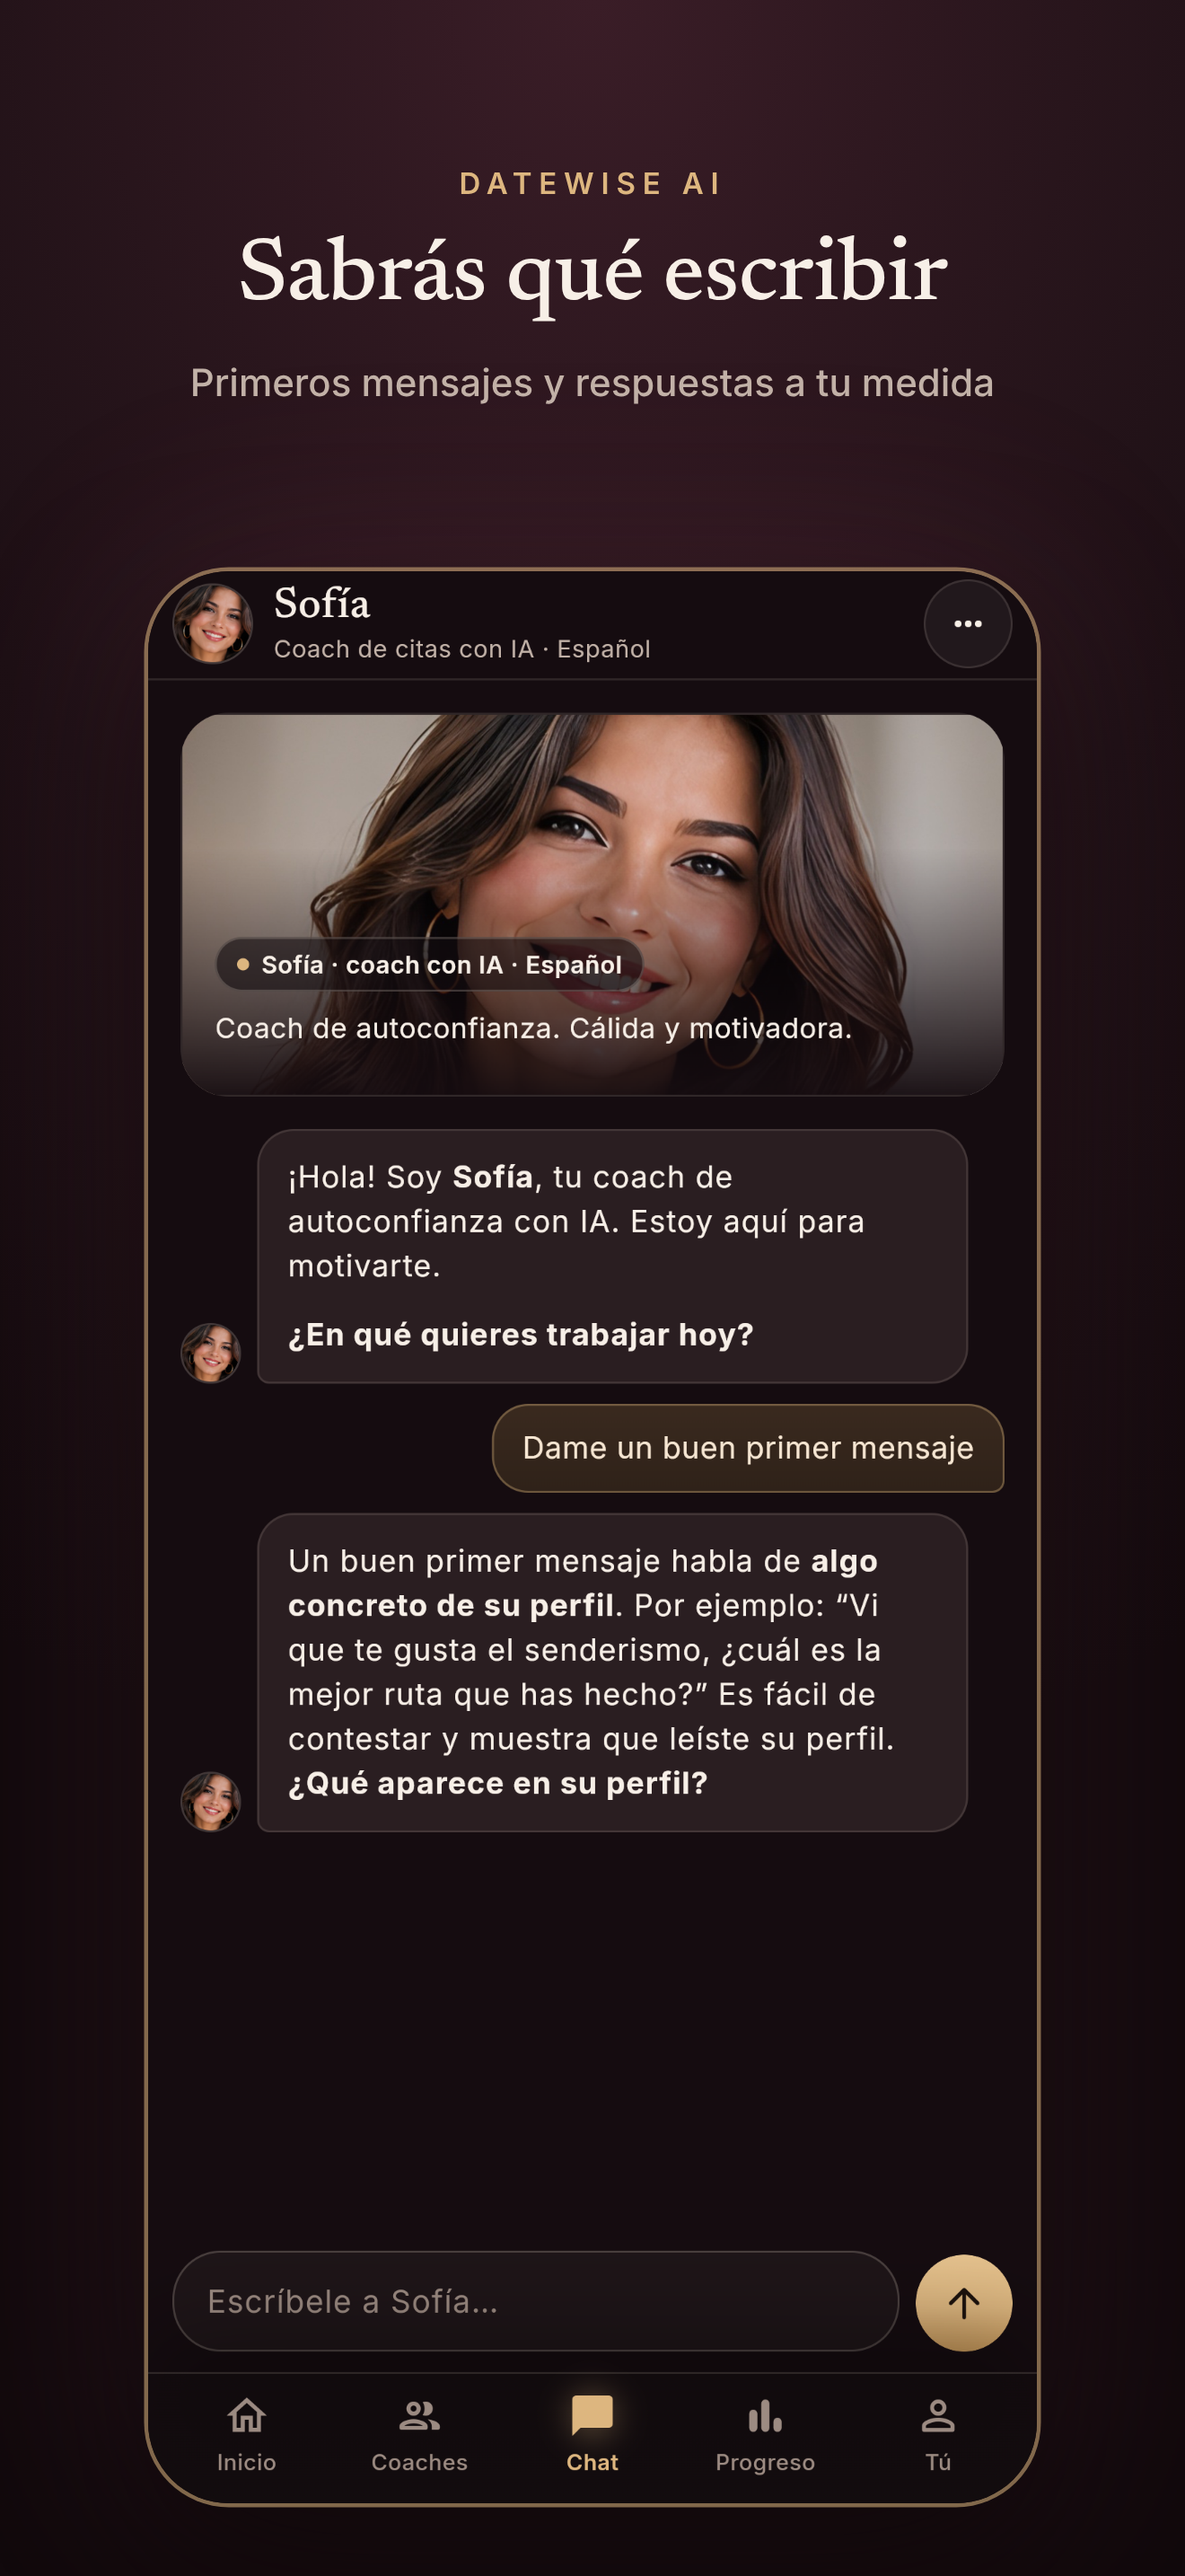
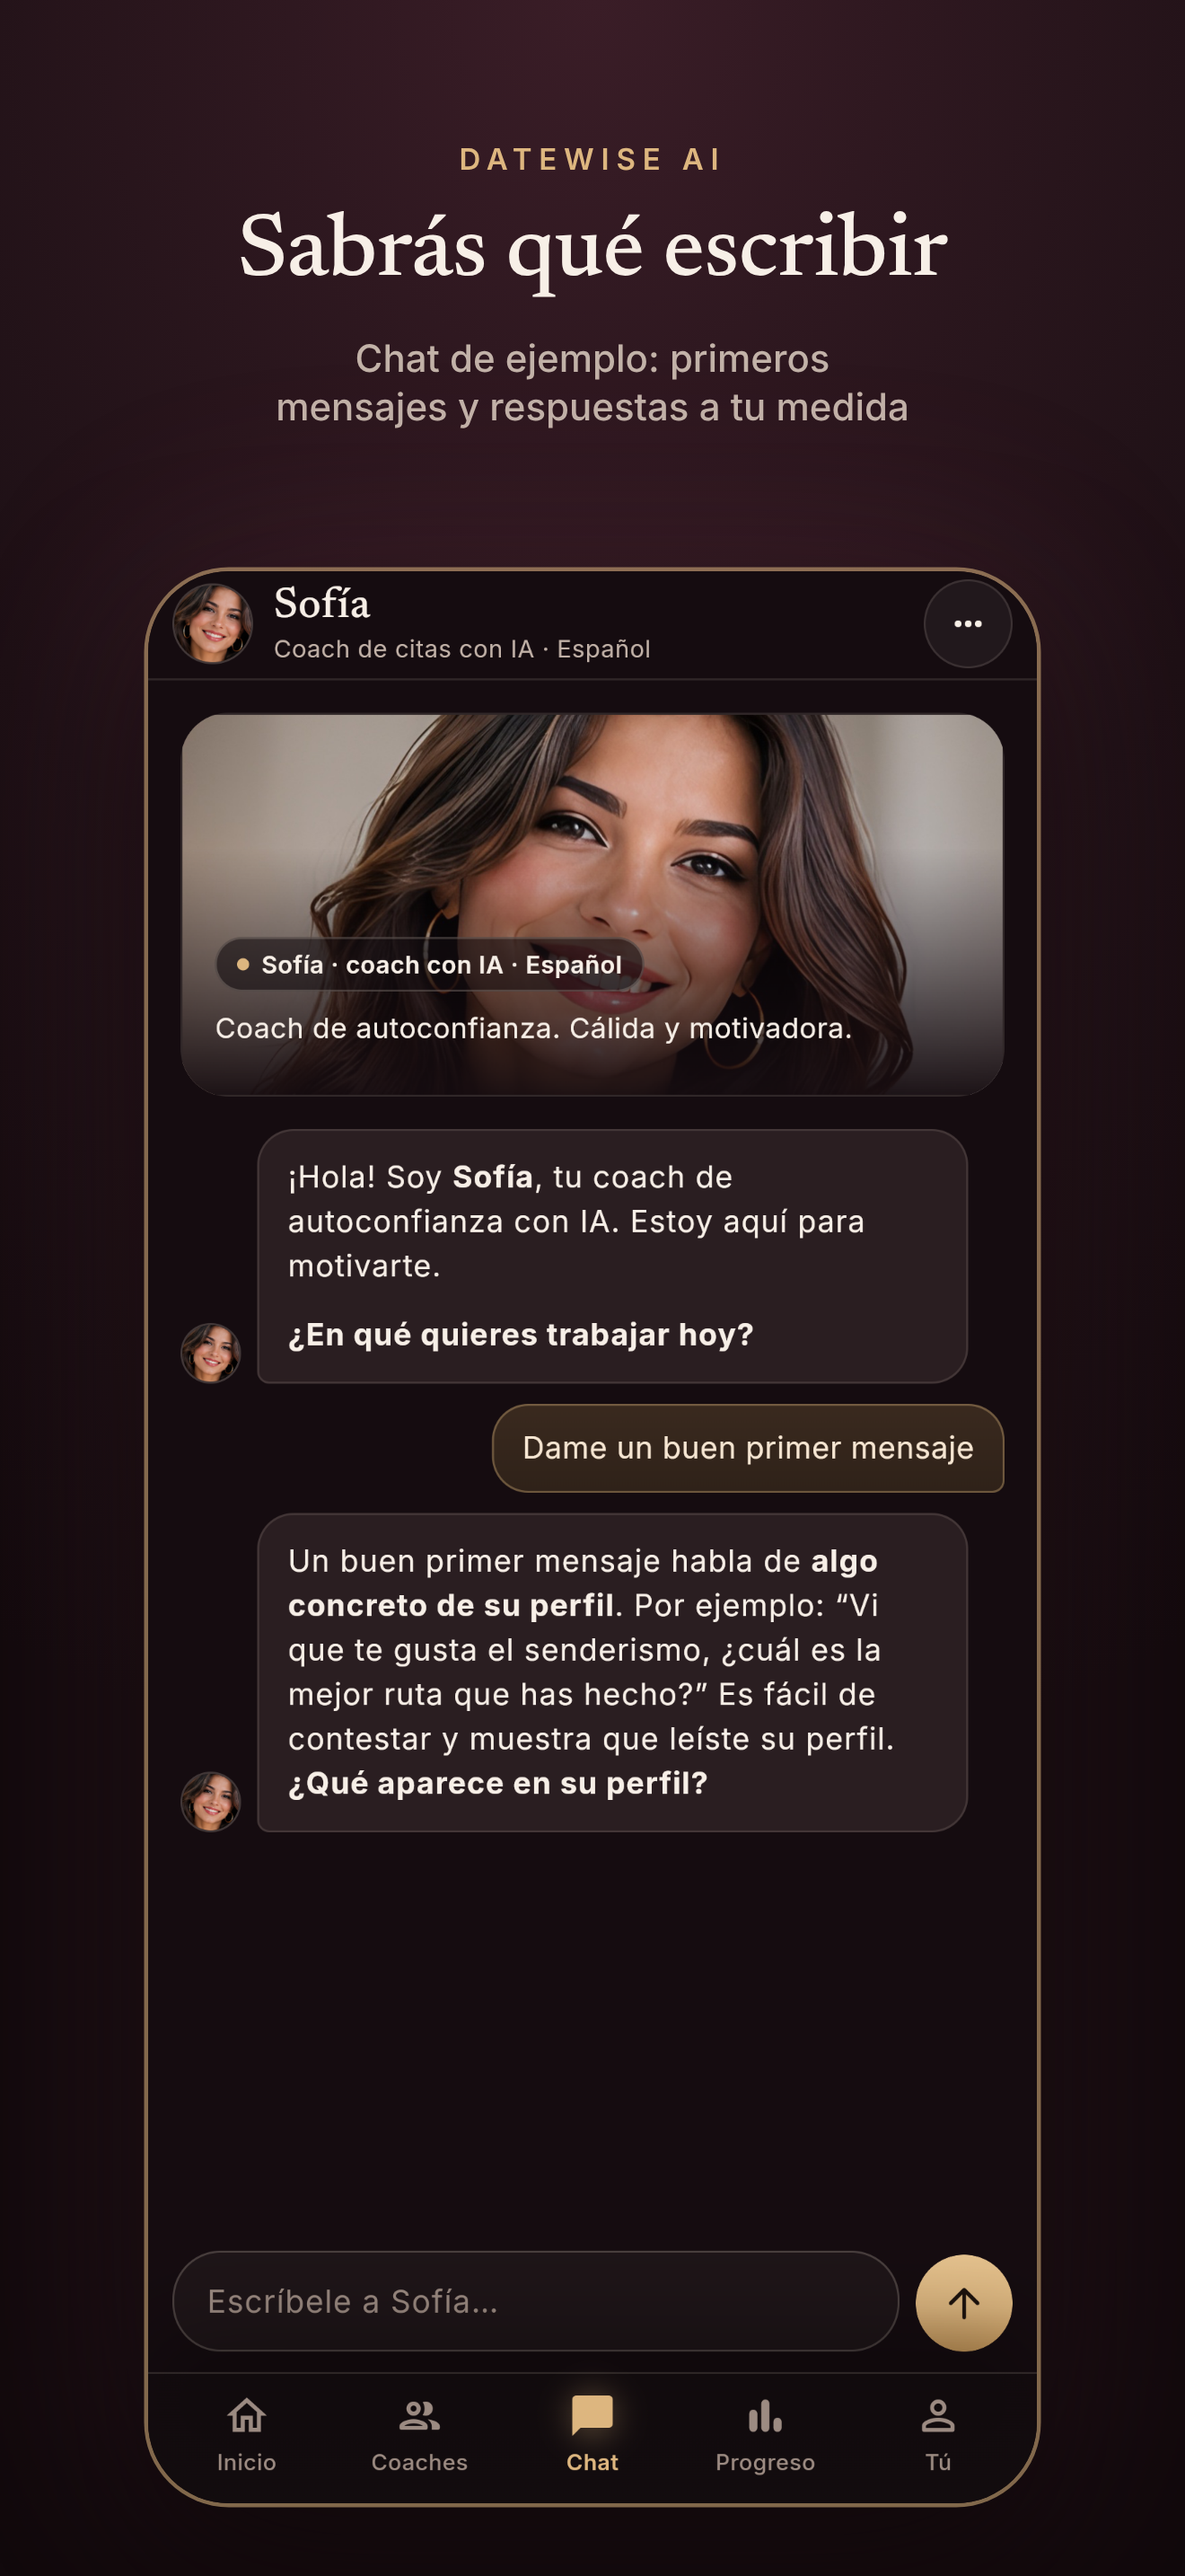
App Store: iPad 13" screenshots (2064x2752, EN/ES), honest captions, metadata fixes
- capture.mjs: new `ipad-13` set (1032x1376 points @2x = 2064x2752, Apple's
  13" iPad size per "Screenshot specifications"), now in the default run;
  frame type scales for iPad; one retry when Chromium fails a capture.
  generate.sh builds with --no-web-resources-cdn.
- docs/appstore/screenshots/{en,es}/ipad-13/01..05 added.
- Captions: 03-chat says "Example chat" / "Chat de ejemplo" (the review
  build's demo conversations); EN 04 "A coach who listens" -> "Honest,
  practical advice / From an AI dating coach, not a person". Phone 03/04
  regenerated; the other phone shots are byte-identical.
- metadata.md: "Speech recognition runs on your device" (not "iPhone"),
  "Each coach keeps its own conversations" (several per coach), ES
  "período" as in the app and Terms; screenshot table, sizes, honesty note,
  field lengths. checklist.md and the review handoff updated.

Reuse check: extended the existing Playwright capture tool and frame.

Claude-Session: https://claude.ai/code/session_01UBUdYkVMGAauDcyEUp8nDQ

Changed region(s): [[0.1553, 0.0621, 0.8386, 0.1862]]

diff --git a/docs/appstore/metadata.md b/docs/appstore/metadata.md
@@ -50,7 +50,7 @@ Changing it to "DateWise AI" is optional; the subtitle carries "dating coach".
 (Do not repeat the app name or category in keywords; Apple ignores them.
 Do not add competitor or other app names.)
 
-### Description (≤4000)
+### Description (≤4000; EN 2,322 and ES 2,578 characters)
 
 **EN**
 
@@ -61,7 +61,7 @@ Do not add competitor or other app names.)
 > • Ethan: a practical, laid-back strategy coach (English)
 > • Sofía: a warm, motivating confidence coach (Spanish)
 > • Diego: a practical, honest relationship coach (Spanish)
-> Switch coaches any time. Each coach keeps its own conversation on your device.
+> Switch coaches any time. Each coach keeps its own conversations on your device.
 >
 > WHAT YOU CAN DO
 > • Improve your dating profile and bio
@@ -71,7 +71,7 @@ Do not add competitor or other app names.)
 > • Follow a short weekly plan and see your progress
 >
 > VOICE PRACTICE
-> Hold the talk button to speak to your coach and hear replies read aloud. Speech recognition runs on your iPhone; only the text of your message is sent.
+> Hold the talk button to speak to your coach and hear replies read aloud. Speech recognition runs on your device; only the text of your message is sent.
 >
 > PRIVACY
 > • No account and no sign-in
@@ -101,7 +101,7 @@ Do not add competitor or other app names.)
 > • Ethan: coach de estrategia, práctico y relajado (inglés)
 > • Sofía: coach de autoconfianza, cálida y motivadora (español)
 > • Diego: coach de relaciones, práctico y honesto (español)
-> Cambia de coach cuando quieras. Cada coach guarda su propia conversación en tu dispositivo.
+> Cambia de coach cuando quieras. Cada coach guarda sus propias conversaciones en tu dispositivo.
 >
 > QUÉ PUEDES HACER
 > • Mejorar tu perfil y tu biografía
@@ -111,7 +111,7 @@ Do not add competitor or other app names.)
 > • Seguir un plan semanal corto y ver tu progreso
 >
 > PRÁCTICA POR VOZ
-> Mantén presionado el botón para hablar con tu coach y escucha sus respuestas en voz alta. El reconocimiento de voz funciona en tu iPhone; solo se envía el texto de tu mensaje.
+> Mantén presionado el botón para hablar con tu coach y escucha sus respuestas en voz alta. El reconocimiento de voz funciona en tu dispositivo; solo se envía el texto de tu mensaje.
 >
 > PRIVACIDAD
 > • Sin cuenta y sin inicio de sesión
@@ -125,14 +125,14 @@ Do not add competitor or other app names.)
 > DateWise AI es para mayores de 18 años. Los coaches son IA, no personas, y pueden equivocarse. Sus consejos no son asesoría profesional, médica, legal ni de salud mental. Conoce a personas nuevas siempre en lugares públicos y prioriza tu seguridad.
 >
 > DATEWISE PREMIUM
-> Para chatear con los coaches necesitas DateWise Premium, una suscripción mensual con renovación automática (9.99 USD al mes en EE. UU.; el precio local puede variar). El pago se carga a tu Cuenta de Apple al confirmar la compra. La suscripción se renueva automáticamente salvo que la canceles al menos 24 horas antes del final del periodo actual. Adminístrala o cancélala en Configuración › [tu nombre] › Suscripciones.
+> Para chatear con los coaches necesitas DateWise Premium, una suscripción mensual con renovación automática (9.99 USD al mes en EE. UU.; el precio local puede variar). El pago se carga a tu Cuenta de Apple al confirmar la compra. La suscripción se renueva automáticamente salvo que la canceles al menos 24 horas antes de que termine el período actual. Adminístrala o cancélala en Configuración › [tu nombre] › Suscripciones.
 >
 > Uso justo: DateWise Premium incluye coaching diario generoso para uso personal, hasta 150 respuestas del coach al día y 1500 al mes (con un máximo de 12 por minuto y 2 a la vez). Los mensajes escritos y hablados cuentan igual. Verás un aviso en el chat cuando estés cerca de un límite. Al alcanzar un límite, el chat se pausa hasta el día siguiente (00:00 UTC) o el mes siguiente.
 >
 > Términos de uso: https://datewiseai.com/terms-of-service
 > Política de privacidad: https://datewiseai.com/privacy-policy
 
-### What's New in 2.0.0
+### What's New in 2.0.0 (≤4000; EN 171, ES 180 characters)
 
 **EN**
 > DateWise AI 2.0 is a full redesign: four AI coaches (two in English, two in Spanish), voice practice, a weekly plan, and DateWise Premium, one simple monthly subscription.
@@ -281,21 +281,35 @@ The first subscription must be submitted **together with** app version 2.0.0
 
 Generated from the web review build by `tool/appstore_screenshots/generate.sh`
 (one command; see `checklist.md`). Files:
-`docs/appstore/screenshots/{en,es}/{6.9,6.5}/NN-name.png`
+`docs/appstore/screenshots/{en,es}/{6.9,6.5,ipad-13}/NN-name.png`
 
-| # | File | EN headline | ES headline |
+| # | File | EN headline / caption | ES headline / caption |
 |--|--|--|--|
-| 1 | 01-coaches | Choose your AI dating coach | Elige tu coach de citas con IA |
-| 2 | 02-home | A simple plan for your week | Un plan sencillo para tu semana |
-| 3 | 03-chat | Know what to say next | Sabrás qué escribir |
-| 4 | 04-coach | A coach who listens | Coaches en español |
-| 5 | 05-privacy | Your data, your controls | Tus datos, tu control |
+| 1 | 01-coaches | Choose your AI dating coach / Four coaches, in English and Spanish | Elige tu coach de citas con IA / Cuatro coaches, en inglés y en español |
+| 2 | 02-home | A simple plan for your week / Profile, conversations and first dates | Un plan sencillo para tu semana / Perfil, conversaciones y primeras citas |
+| 3 | 03-chat | Know what to say next / Example chat: openers and replies you can adapt | Sabrás qué escribir / Chat de ejemplo: primeros mensajes y respuestas a tu medida |
+| 4 | 04-coach | Honest, practical advice / From an AI dating coach, not a person (Welcome screen) | Coaches en español / Sofía y Diego te ayudan en tu idioma (Diego's chat) |
+| 5 | 05-privacy | Your data, your controls / Coach memory is off unless you turn it on | Tus datos, tu control / La memoria del coach está apagada salvo que la actives |
 
-Sizes: 6.9" 1320x2868 (required) and 6.5" 1284x2778. App Store Connect scales
-these down for smaller iPhones. The app also supports iPad
-(`TARGETED_DEVICE_FAMILY = 1,2`), so App Store Connect requires iPad 13"
-screenshots too: run `generate.sh --skip-build --sizes 13` and review them, or
-capture them from an iPad simulator.
+Sizes (Apple's "Screenshot specifications", App Store Connect Help,
+checked 2026-11-23):
+
+| Set | Pixels | Apple's display class | Required |
+|--|--|--|--|
+| `6.9` | 1320x2868 | iPhone 6.9" | Yes (or 6.5") |
+| `6.5` | 1284x2778 | iPhone 6.5" | Fallback for 6.9" |
+| `ipad-13` | 2064x2752 | iPad 13" | Yes: the app runs on iPad (`TARGETED_DEVICE_FAMILY = 1,2`) |
+
+App Store Connect scales these down for smaller iPhones and iPads. The iPad
+set shows the app's own iPad layout (1032x1376 points at 2x: wider columns,
+taller portraits), not a stretched phone screen.
+
+Honesty: the chats are example conversations produced by the review build's
+offline demo coach; the chat caption says "Example chat" / "Chat de
+ejemplo". Each coach is shown as a still portrait labelled "AI coach"; no
+screenshot shows or implies live video or a real person.
+The web review build's "Review build" paywall note never appears in these
+five screens.
 
 Coach portraits are placeholders until the owner supplies final portraits;
 regenerate after replacing `assets/coaches/*`.

diff --git a/docs/appstore/checklist.md b/docs/appstore/checklist.md
@@ -12,8 +12,10 @@ TestFlight builds are 101 and up, see step 19).
 **Still open for the owner** (details in the numbered steps):
 - Interim coach portraits: the current `assets/coaches/` images are interim;
   replace them with the final, licensed portraits and record them (step 10).
-- iPad 13" screenshots: required because the app supports iPad; generate and
-  review them, then upload with the iPhone sets (steps 11 and 24).
+- iPad 13" screenshots (2064x2752) are generated in
+  `docs/appstore/screenshots/{en,es}/ipad-13/`; review them and upload them
+  with the iPhone sets (steps 11 and 24). Regenerate after replacing the
+  portraits.
 - Live legal and support URLs: deploy the website so
   `https://datewiseai.com/privacy-policy` and `/terms-of-service` show the v2
   pages (served by `web/_redirects` on Netlify or `web/.htaccess` on Apache),
@@ -54,12 +56,14 @@ TestFlight builds are 101 and up, see step 19).
 11. Regenerate the screenshots (one command, needs Flutter, Python 3, Node):
     ```bash
     (cd tool/appstore_screenshots && npm install && npx playwright install chromium)
-    tool/appstore_screenshots/generate.sh            # builds web, writes docs/appstore/screenshots/
-    tool/appstore_screenshots/generate.sh --skip-build --sizes 13   # iPad 13" set
+    tool/appstore_screenshots/generate.sh   # builds web, writes every set to docs/appstore/screenshots/
+    tool/appstore_screenshots/generate.sh --skip-build --sizes ipad-13   # only the iPad 13" set
     ```
-    Review every image. Apple requires iPad screenshots too, because the app
-    supports iPad (`TARGETED_DEVICE_FAMILY = 1,2`; removing iPad support from
-    an app that already shipped on iPad is not allowed).
+    It writes iPhone 6.9" (1320x2868), iPhone 6.5" (1284x2778) and iPad 13"
+    (2064x2752) sets in English and Spanish. Review every image. Apple
+    requires the iPad set because the app supports iPad
+    (`TARGETED_DEVICE_FAMILY = 1,2`; removing iPad support from an app that
+    already shipped on iPad is not allowed).
 
 ## 4. App Store Connect: subscription product
 
@@ -153,7 +157,8 @@ to 100 + the run number so each upload is unique.
 ## 9. Store listing and submit
 
 24. Version 2.0.0 page: paste metadata (EN + ES) from `metadata.md` §1,
-    upload screenshots (6.9", 6.5", iPad 13") for each language.
+    upload screenshots for each language: `6.9` (iPhone 6.9"), optionally
+    `6.5`, and `ipad-13` (iPad 13" display).
 25. App Information: category Lifestyle, age rating questionnaire (§2, target
     18+), App Privacy answers (§3), privacy policy URL.
 26. Version page: select build 2.0.0 (100, or the CI build you tested in

diff --git a/docs/review/FINAL_REVIEW_HANDOFF.md b/docs/review/FINAL_REVIEW_HANDOFF.md
@@ -77,7 +77,7 @@ Only PASS results that were actually run are reported as PASS. Anything that nee
   - coach replies follow the system text size.
 
 ## 4. Screenshots
-- **After (current):** `docs/appstore/screenshots/{en,es}/{6.9,6.5}/01-coaches … 05-privacy.png`. All 20 were regenerated at `84d5e1e` and checked by the design reviewer. Sizes are 1320×2868 (6.9") and 1284×2778 (6.5").
+- **After (current):** `docs/appstore/screenshots/{en,es}/{6.9,6.5,ipad-13}/01-coaches … 05-privacy.png`. The 20 iPhone shots were regenerated at `84d5e1e` and checked by the design reviewer; the 10 iPad 13" shots and the new chat and 04 captions ("Example chat", "From an AI dating coach, not a person") were added in the release polish. Sizes are 1320×2868 (6.9"), 1284×2778 (6.5") and 2064×2752 (iPad 13").
 - **Before:** the same paths at commit `7c3306c`, which predates the design fixes, viewable with `git show 7c3306c:docs/appstore/screenshots/...`.
 - **The chats in the screenshots are examples from the review build** (`DW_MOCK_AI`, which works only in web and debug builds). They are not live AI output.
 
@@ -128,7 +128,7 @@ Only PASS results that were actually run are reported as PASS. Anything that nee
    - set the App Store Server Notifications URL (optional);
    - add the 7 signing secrets;
    - review Users and Access.
-5. **Assets:** the 8 final portraits, and the date and account the reference images were generated with; iPad 13" screenshots.
+5. **Assets:** the 8 final portraits, and the date and account the reference images were generated with; then regenerate all screenshots (iPhone and iPad 13").
 6. **Hosting:** confirm you control datewiseai.com, the legal and support URLs, and support@datewiseai.com.
 7. **Cost-guard deploy (later, needs approval):**
    - set a new pinned hash in Amber;
